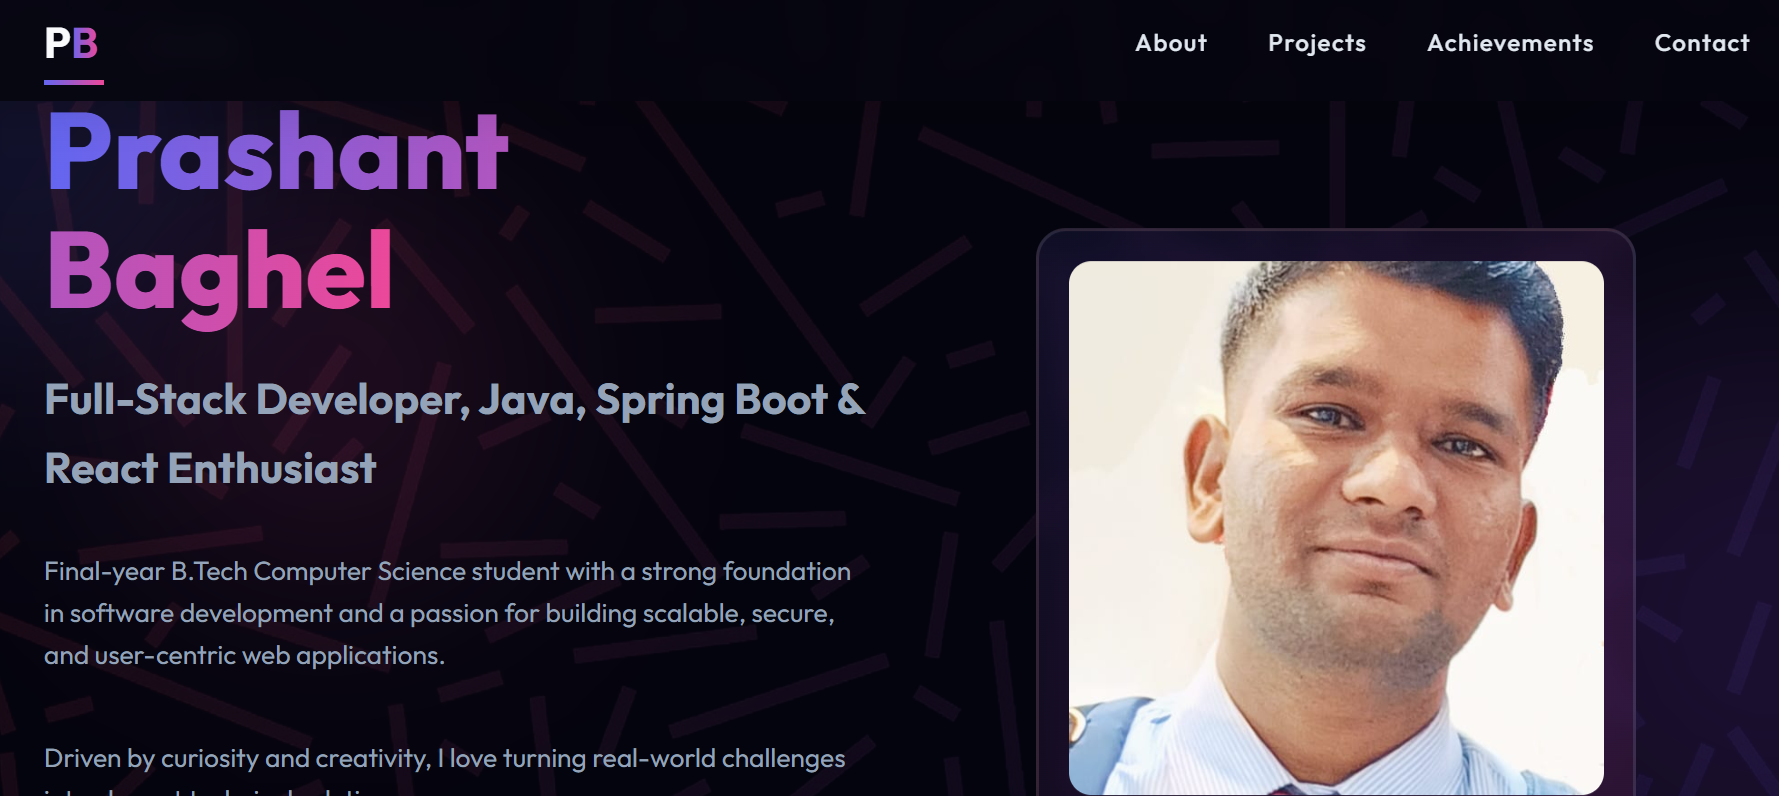
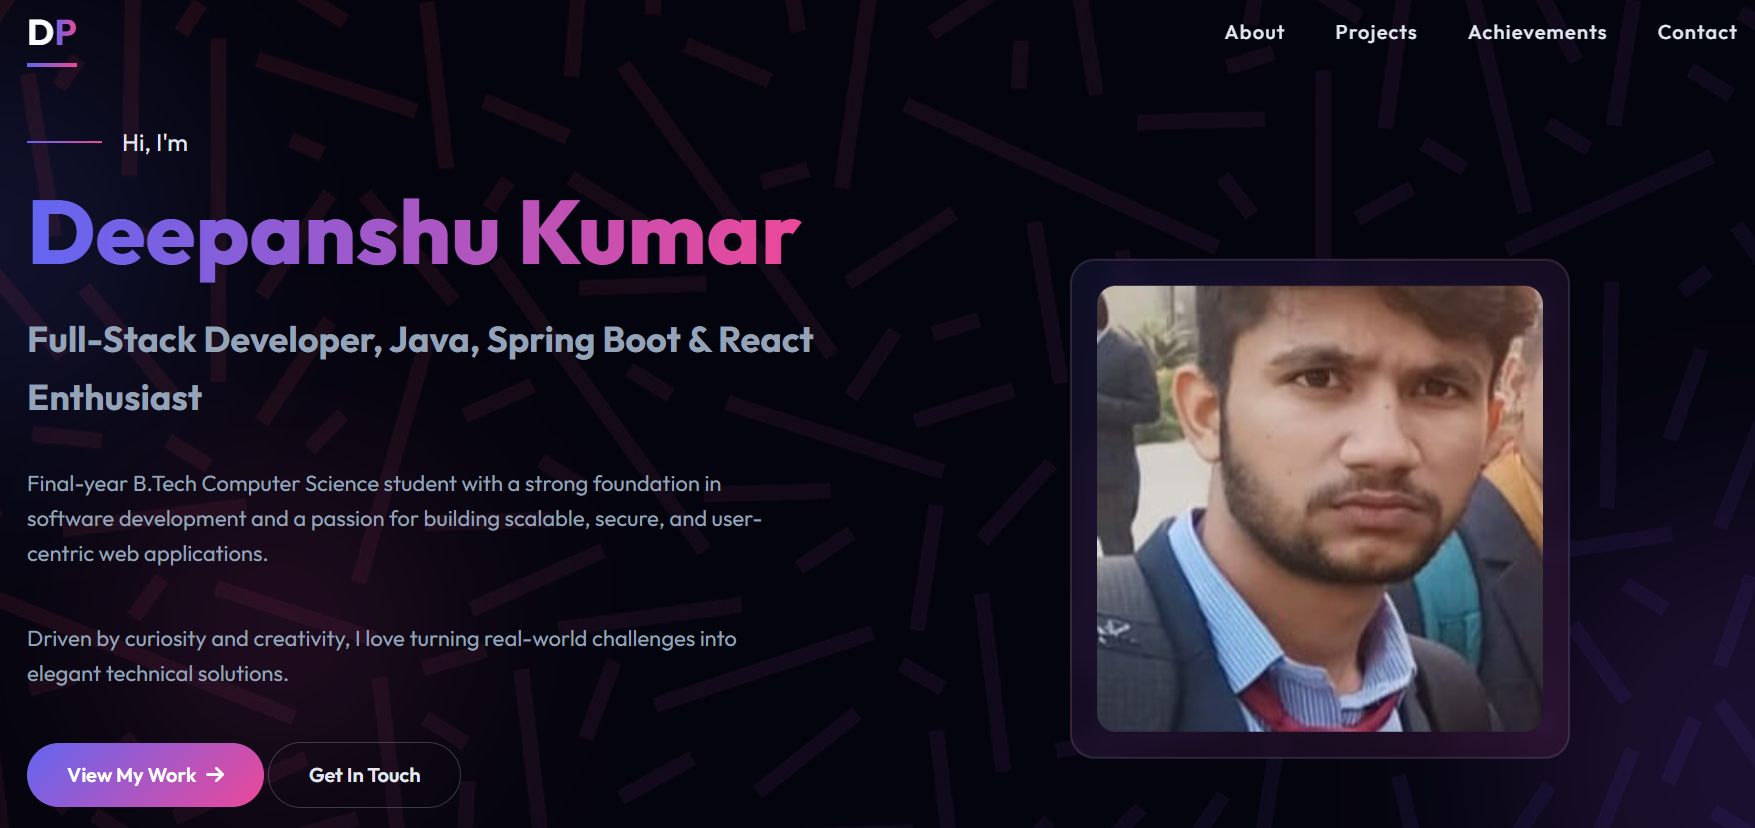
Initial commit

diff --git a/personalportfolio/src/main/resources/templates/fragments/projects.html b/personalportfolio/src/main/resources/templates/fragments/projects.html
@@ -5,11 +5,37 @@
         <div class="container">
             <div class="section-title-container">
                 <h2 class="section-title">My Projects</h2>
-<!--                <p class="section-subtitle">-->
-<!--                    Explore some of my recent videos, courses on youtube and Udemy-->
-<!--                </p>-->
             </div>
             <div class="projects-container">
+                <div class="project-card">
+                    <div class="project-image">
+                        <img src="/images/Medora-Image.png" alt="Trinetra">
+                        <div class="project-overlay"></div>
+                        <div class="project-tags">
+                            <span class="project-tag">Spring Boot</span>
+                            <span class="project-tag">React</span>
+                            <span class="project-tag">Tesseract</span>
+                            <span class="project-tag">Apache PDFBox</span>
+                            <span class="project-tag">Google GEMINI</span>
+                            <span class="project-tag">Spring Security</span>
+                            <span class="project-tag">Data JPA</span>
+                            <span class="project-tag">MySQL</span>
+                            <span class="project-tag">AWS</span>
+                            <span class="project-tag">Postman</span>
+                        </div>
+                    </div>
+                    <div class="project-content">
+                        <h3 class="project-title">Medilytics</h3>
+                        <p class="project-description">
+                           A smart web application designed to be your personal health buddy. It automates the analysis of medical reports, medicines and doctor's prescriptions, explains the results in simple language, and suggests the right specialist to consult.
+                        </p>
+                        <div class="project-links">
+                            <a href="https://github.com/PrashanttBG/Medora" class="project-link" target="_blank">
+                                <i class="fab fa-github"></i> View Code
+                            </a>
+                        </div>
+                    </div>
+                </div>
                 <div class="project-card">
                     <div class="project-image">
                         <img src="/images/Trinetra.png" alt="Trinetra">
@@ -31,11 +57,6 @@
                         <p class="project-description">
                             A web-based platform for managing employees, companies, and IPC (camera) systems in small to medium-scale industries. Includes role-based access (Admin & Manager), employee tracking, and real-time dashboard.
                         </p>
-<!--                        <div class="project-links">-->
-<!--                            <a href="https://github.com/scbushan05/expense-manager-api" class="project-link" target="_blank">-->
-<!--                                <i class="fab fa-github"></i> View Code-->
-<!--                            </a>-->
-<!--                        </div>-->
                     </div>
                 </div>
 

diff --git a/personalportfolio/src/main/resources/templates/fragments/footer.html b/personalportfolio/src/main/resources/templates/fragments/footer.html
@@ -13,13 +13,13 @@
                         <a href="tel:+917060426377" class="social-link">
                             <i class="fas fa-phone-alt"></i>
                         </a>
-                        <a href="mailto:baghelprashant180@gmail.com" class="social-link">
+                        <a href="mailto:dpaliwal9644@gmail.com" class="social-link">
                             <i class="fas fa-envelope"></i>
                         </a>
-                        <a href="https://www.linkedin.com/in/iamprashant-baghel/" target="_blank" class="social-link">
+                        <a href="https://www.linkedin.com/in/deepanshu-kumar-26a77b303/" target="_blank" class="social-link">
                             <i class="fab fa-linkedin-in"></i>
                         </a>
-                        <a href="https://github.com/PrashanttBG" target="_blank" class="social-link">
+                        <a href="https://github.com/Deepanshu9644" target="_blank" class="social-link">
                             <i class="fab fa-github"></i>
                         </a>
                     </div>
@@ -44,23 +44,23 @@
                 <div class="footer-links-container">
                     <h3 class="footer-heading">Coding Profiles</h3>
                     <div class="footer-links">
-                        <a href="https://leetcode.com/u/PrashantBG2301" class="footer-link">
+                        <a href="https://leetcode.com/u/Deepanshu_kumar_/" class="footer-link">
                             <i class="fas fa-chevron-right"></i> Leetcode
                         </a>
-                        <a href="https://www.hackerrank.com/profile/cseltfw2301/" class="footer-link">
+                        <a href="https://www.hackerrank.com/profile/cselt2307" class="footer-link">
                             <i class="fas fa-chevron-right"></i> HackerRank
                         </a>
-                        <a href="https://www.geeksforgeeks.org/user/baghelprak24g//" class="footer-link">
+                        <a href="hhttps://www.geeksforgeeks.org/user/dpaliwa2xnr/" class="footer-link">
                             <i class="fas fa-chevron-right"></i> GeeksforGeeks
                         </a>
-                        <a href="https://www.codechef.com/users/prashant2301" class="footer-link">
+                        <a href="https://www.codechef.com/" class="footer-link">
                             <i class="fas fa-chevron-right"></i> CodeChef
                         </a>
                     </div>
                 </div>
             </div>
             <div class="footer-bottom">
-                <p>&copy; 2025 Prashant Baghel. All rights reserved.</p>
+                <p>&copy; 2025 Deepanshu Kumar. All rights reserved.</p>
             </div>
         </div>
     </footer>

diff --git a/personalportfolio/src/main/resources/templates/fragments/contact.html b/personalportfolio/src/main/resources/templates/fragments/contact.html
@@ -16,31 +16,31 @@
                         I'm always open to discussing new projects, creative ideas or opportunities to be part of your vision. Feel free to reach out using any of the methods below.
                     </p>
                     <div class="contact-links">
-                        <a href="tel:+917060426377" class="contact-link">
+                        <a href="tel:+919870928650" class="contact-link">
                             <div class="contact-link-icon">
                                 <i class="fas fa-phone"></i>
                             </div>
                             <div class="contact-link-text">
                                 <span class="contact-link-label">Phone</span>
-                                <span class="contact-link-value">+91 7060426377</span>
+                                <span class="contact-link-value">+91 9870928650</span>
                             </div>
                         </a>
-                        <a href="mailto:baghelprashant180@gmail.com" class="contact-link">
+                        <a href="mailto:dpaliwal9644@gmail.com" class="contact-link">
                             <div class="contact-link-icon">
                                 <i class="fas fa-envelope"></i>
                             </div>
                             <div class="contact-link-text">
                                 <span class="contact-link-label">Email</span>
-                                <span class="contact-link-value">baghelprashant180@gmail.com</span>
+                                <span class="contact-link-value">dpaliwal9644@gmail.com</span>
                             </div>
                         </a>
-                        <a href="https://www.linkedin.com/in/iamprashant-baghel/" target="_blank" class="contact-link">
+                        <a href="https://www.linkedin.com/in/deepanshu-kumar-26a77b303/" target="_blank" class="contact-link">
                             <div class="contact-link-icon">
                                 <i class="fab fa-linkedin-in"></i>
                             </div>
                             <div class="contact-link-text">
                                 <span class="contact-link-label">LinkedIn</span>
-                                <span class="contact-link-value">Prashant Baghel</span>
+                                <span class="contact-link-value">Deepanshu kumar</span>
                             </div>
                         </a>
                     </div>

diff --git a/personalportfolio/src/main/resources/templates/fragments/hero.html b/personalportfolio/src/main/resources/templates/fragments/hero.html
@@ -7,7 +7,7 @@
         <div class="container hero-container">
             <div class="hero-content">
                 <div class="hero-greeting">Hi, I'm</div>
-                <h1 class="hero-title"><span class="gradient-text">Prashant Baghel</span></h1>
+                <h1 class="hero-title"><span class="gradient-text">Deepanshu Kumar</span></h1>
                 <h2 class="hero-subtitle">Full-Stack Developer, Java, Spring Boot & React Enthusiast</h2>
                 <p class="hero-description">
                     Final-year B.Tech Computer Science student with a strong foundation in software development and a passion for building scalable, secure, and user-centric web applications.
@@ -24,16 +24,16 @@
                     </a>
                 </div>
                 <div class="social-links">
-                    <a href="tel:+917060426377" class="social-link">
+                    <a href="tel:+919870928650" class="social-link">
                         <i class="fas fa-phone-alt"></i>
                     </a>
-                    <a href="mailto:baghelprashant180@gmail.com" class="social-link">
+                    <a href="mailto:dpaliwal9644@gmail.com" class="social-link">
                         <i class="fas fa-envelope"></i>
                     </a>
-                    <a href="https://www.linkedin.com/in/iamprashant-baghel/" target="_blank" class="social-link">
+                    <a href="https://www.linkedin.com/in/deepanshu-kumar-26a77b303/" target="_blank" class="social-link">
                         <i class="fab fa-linkedin-in"></i>
                     </a>
-                    <a href="https://github.com/PrashanttBG" target="_blank" class="social-link">
+                    <a href="https://github.com/Deepanshu9644" target="_blank" class="social-link">
                         <i class="fab fa-github"></i>
                     </a>
                 </div>
@@ -41,7 +41,7 @@
             <div class="hero-visual">
                 <div class="hero-visual-inner">
                     <div class="hero-visual-frame">
-                        <img src="/images/Prashant_photo.jpg" alt="Profile" style="width: 90%; height: 90%; object-fit: cover; border-radius: 15px;">
+                        <img src="/images/Deepanshu.jpg" alt="Profile" style="width: 90%; height: 90%; object-fit: cover; border-radius: 15px;">
                     </div>
                     <div class="hero-visual-frame"></div>
                     <div class="hero-visual-frame"></div>

diff --git a/personalportfolio/src/main/resources/templates/fragments/about.html b/personalportfolio/src/main/resources/templates/fragments/about.html
@@ -14,7 +14,7 @@
                     <div class="about-tagline">My Background</div>
                     <h3 class="about-heading">Developer by Passion, Engineer by Precision.</h3>
                     <p class="about-text">
-                        I'm Prashant Baghel, a final-year B.Tech student specializing in Computer Science and Engineering. With a strong command of Java, Spring Boot, React and MySQL, I enjoy developing full-stack applications that are both functional and user-friendly.
+                        I'm Deepanshu Kumar, a final-year B.Tech student specializing in Computer Science and Engineering. With a strong command of Java, Spring Boot, React and MySQL, I enjoy developing full-stack applications that are both functional and user-friendly.
                     </p>
                     <p class="about-text">
                         I’ve worked on various projects ranging from enterprise dashboards to AI-integrated healthcare systems. My approach to software development combines clean code principles, performance optimization, and a focus on user experience.
@@ -25,7 +25,6 @@
                     <p class ="about-text">
                         Beyond coding, I participate in hackathons, explore AI/ML concepts, and stay updated with the latest tech trends.
                     </p>
-                    <!-- Keep rest of the content unchanged -->
                     <div class="skills-container">
                         <div class="skill-item">
                             <div class="skill-icon"><i class="fab fa-java"></i></div>

diff --git a/personalportfolio/src/main/resources/templates/fragments/achievements.html b/personalportfolio/src/main/resources/templates/fragments/achievements.html
@@ -16,7 +16,7 @@
                     </div>
                     <h3 class="achievement-title">Leetcode mastery</h3>
                     <p class="achievement-description">
-                        Mastered <strong>700+ coding problems</strong> on <strong>LeetCode</strong> with a peak rating of <strong>1719</strong>, refining problem-solving, optimization, and real-world algorithmic thinking.
+                        Mastered <strong>400+ coding problems</strong> on <strong>LeetCode</strong>, refining problem-solving, optimization, and real-world algorithmic thinking.
                     </p>
                 </div>
 
@@ -26,7 +26,7 @@
                     </div>
                     <h3 class="achievement-title">5-Star Gold Rank in Java on HackerRank</h3>
                     <p class="achievement-description">
-                        Solved 1000+ coding problems across platforms like LeetCode, HackerRank, Codeforces, and GeeksforGeeks.
+                        Solved 800+ coding problems across platforms like LeetCode, HackerRank, Codeforces, and GeeksforGeeks.
                     </p>
                 </div>
 

diff --git a/personalportfolio/src/main/resources/templates/home.html b/personalportfolio/src/main/resources/templates/home.html
@@ -3,7 +3,7 @@
 <head>
   <meta charset="UTF-8">
   <meta name="viewport" content="width=device-width, initial-scale=1.0">
-  <title>Prashant Baghel - Personal Portfolio</title>
+  <title>Deepanshu Kumar - Personal Portfolio</title>
   <link rel="stylesheet" href="https://cdnjs.cloudflare.com/ajax/libs/font-awesome/6.4.0/css/all.min.css">
   <link rel="preconnect" href="https://fonts.googleapis.com">
   <link rel="preconnect" href="https://fonts.gstatic.com" crossorigin>

diff --git a/personalportfolio/src/main/resources/templates/fragments/header.html b/personalportfolio/src/main/resources/templates/fragments/header.html
@@ -4,7 +4,7 @@
 <th:block th:fragment="site-header">
     <header class="header">
         <div class="container header-container">
-            <div class="logo">P<span>B</span></div>
+            <div class="logo">D<span>P</span></div>
             <nav class="nav">
                 <div class="nav-links">
                     <a href="#about" class="nav-link">About</a>

diff --git a/personalportfolio/src/main/resources/templates/fragments/loader.html b/personalportfolio/src/main/resources/templates/fragments/loader.html
@@ -3,7 +3,7 @@
 <th:block th:fragment="loader">
     <div class="loader-wrapper">
         <div class="loader">
-            <div class="loader-text">P.B</div>
+            <div class="loader-text">D.P</div>
             <div class="loader-circle"></div>
             <div class="loader-circle"></div>
             <div class="loader-circle"></div>

diff --git a/personalportfolio/src/main/java/in/deepanshu/personalportfolio/PersonalportfolioApplication.java b/personalportfolio/src/main/java/in/deepanshu/personalportfolio/PersonalportfolioApplication.java
@@ -1,11 +1,10 @@
-package in.prashantBaghel.personalportfolio;
+package in.deepanshu.personalportfolio;
 
 import org.springframework.boot.SpringApplication;
 import org.springframework.boot.autoconfigure.SpringBootApplication;
 
 @SpringBootApplication
 public class PersonalportfolioApplication {
-
 	public static void main(String[] args) {
 		SpringApplication.run(PersonalportfolioApplication.class, args);
 	}

diff --git a/personalportfolio/src/main/java/in/deepanshu/personalportfolio/controller/HomeController.java b/personalportfolio/src/main/java/in/deepanshu/personalportfolio/controller/HomeController.java
@@ -1,4 +1,4 @@
-package in.prashantBaghel.personalportfolio.controller;
+package in.deepanshu.personalportfolio.controller;
 
 import org.springframework.stereotype.Controller;
 import org.springframework.web.bind.annotation.RequestMapping;

diff --git a/README.md b/README.md
@@ -1,6 +1,6 @@
-# 🌐 Personal Portfolio Website
+ 🌐 Personal Portfolio Website
 
-Hi! I'm **Prashant Baghel**, and this is my personal developer portfolio website — a place where I showcase my projects, skills, achievements, and background.
+Hi! I'm **Deepanshu Kumar**, and this is my personal developer portfolio website — a place where I showcase my projects, skills, achievements, and background.
 
 > **Developer by Passion, Engineer by Precision.**
 
@@ -31,7 +31,7 @@ Hi! I'm **Prashant Baghel**, and this is my personal developer portfolio website
 
 ## 📸 Preview
 
-![Screenshot 2025-06-21 163014](https://github.com/user-attachments/assets/9a08a642-a0b3-42ef-8735-4ccbb82a6008)
+![c:\Users\dpali\OneDrive\Pictures\Screenshots\Portfolio.png.png](https://github.com/user-attachments/assets/9a08a642-a0b3-42ef-8735-4ccbb82a6008)
 
 
 
